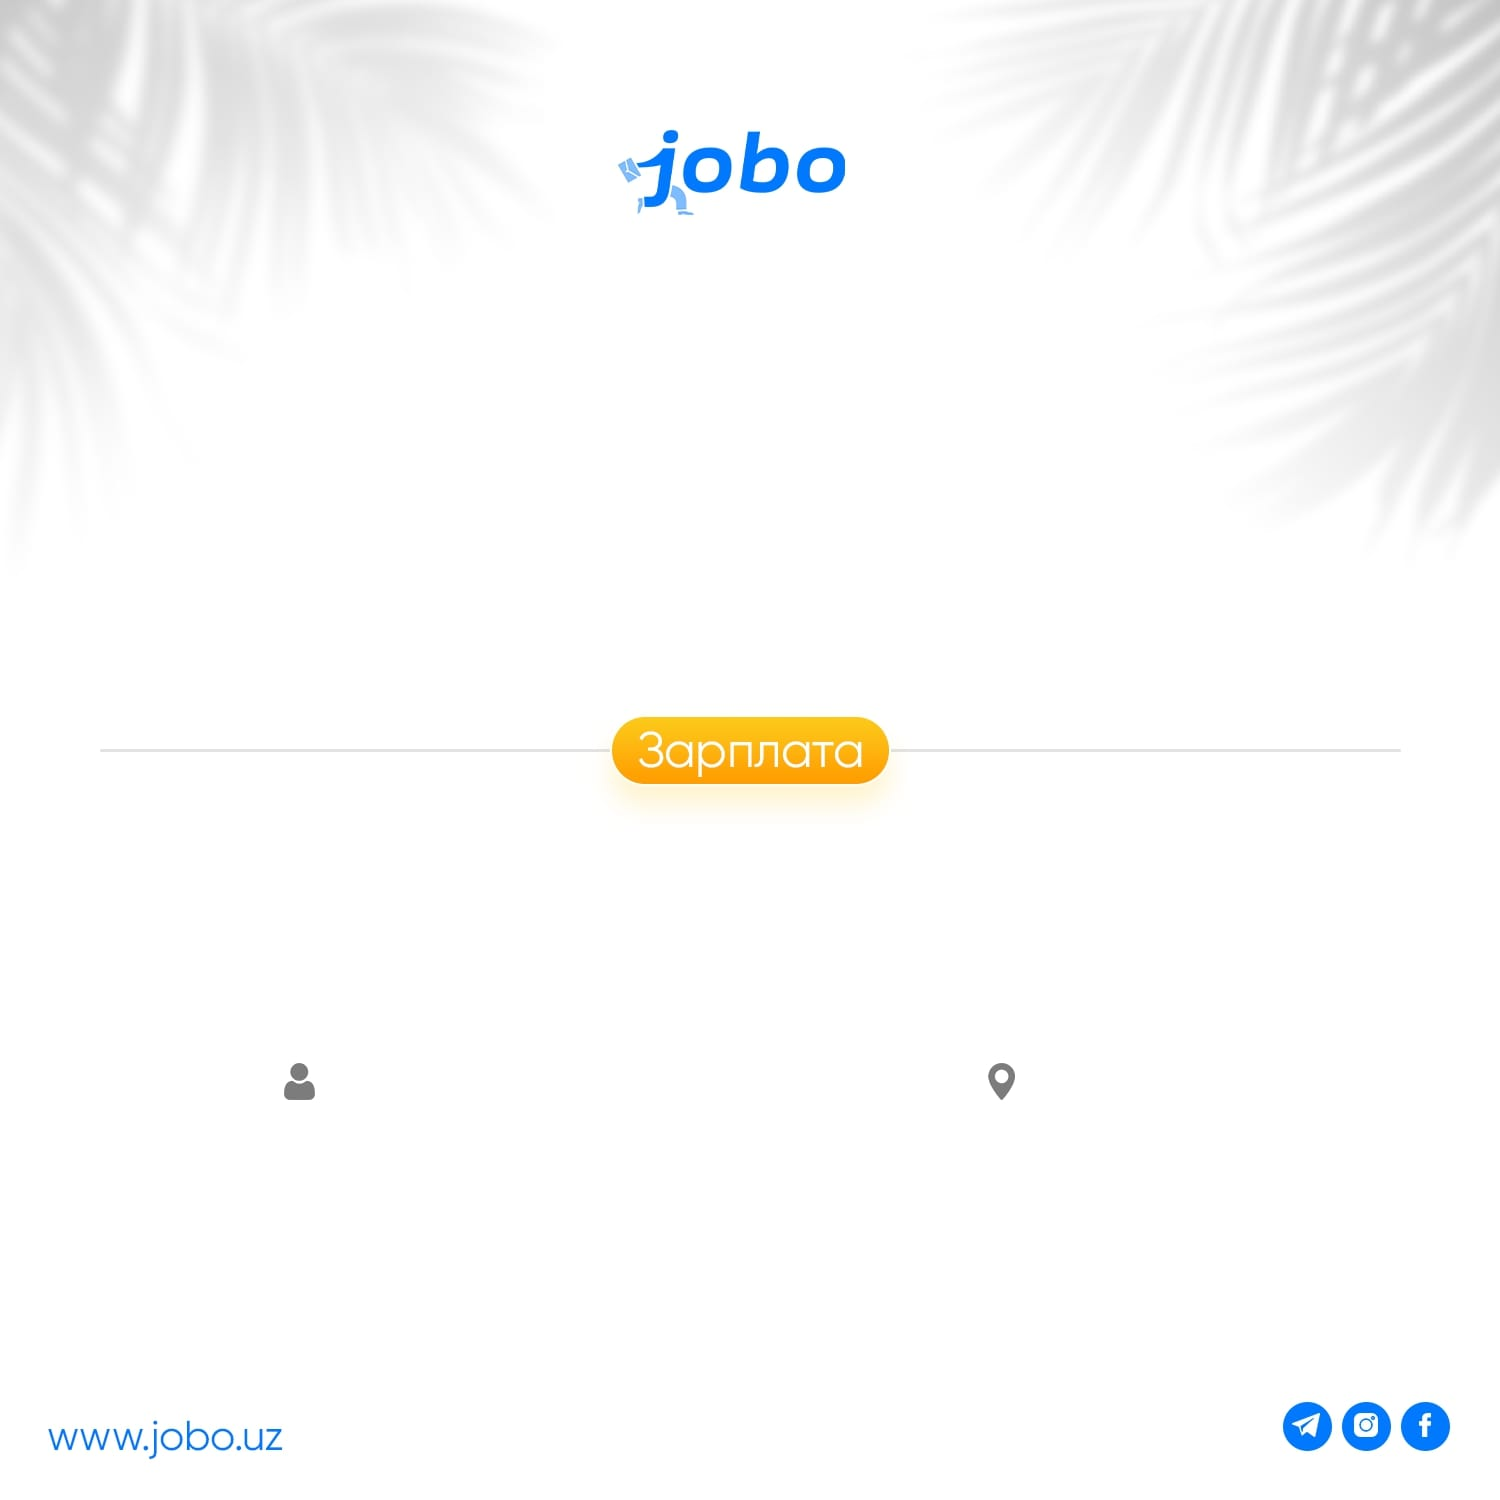
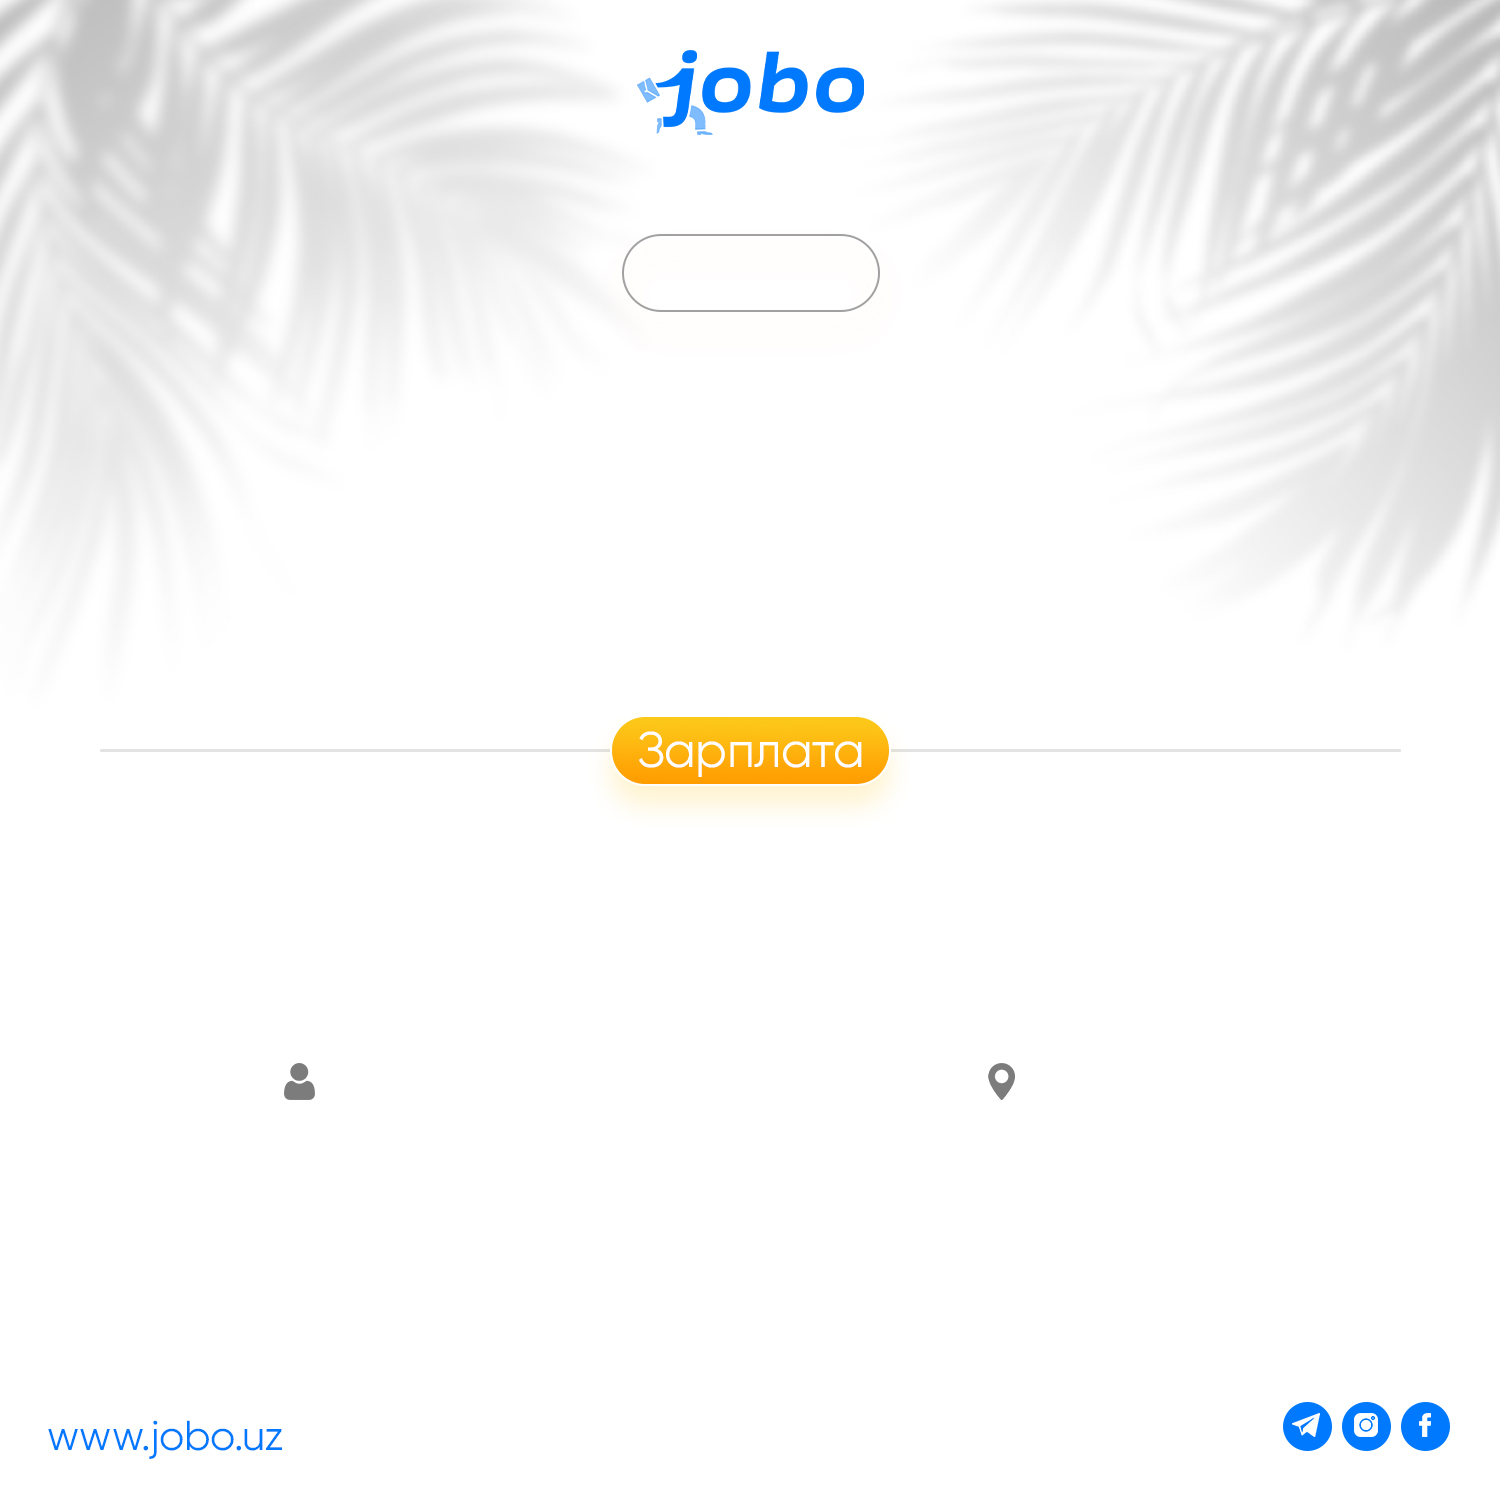
post number image create

diff --git a/app/Services/JobServices.php b/app/Services/JobServices.php
@@ -71,11 +71,12 @@ class JobServices
     }
 
 
-    public function createJobBanner( $company, $title ,$salary , $address)
+    public function createJobBanner( $company, $title ,$salary , $address, $post_number)
     {
         $randomFileName = uniqid() . '.jpg';
         $imagefileUrl = 'uploads/image/job-posts/' . $randomFileName;
         $storagePath = public_path($imagefileUrl);
+        $postNumber =  '№ ' . $post_number;
         $text1 = $title;
         $text2 = $company;
         $text3 = Location::find($address)['name']['ru'];
@@ -143,6 +144,14 @@ class JobServices
            $remainingText = "";
         }
         
+        $jpg_image->text($postNumber,  753 , 273, function ($font) use ($font_path) {
+            $font->file($font_path);
+            $font->size(50);
+            $font->color('#0079fe');
+            $font->align('center');
+            $font->valign('middle');
+        });
+
         $jpg_image->text($firstLine , 750 , 450, function ($font) use ($font_path, $green) {
             $font->file($font_path);
             $font->size(92);

diff --git a/app/Http/Controllers/Admin/AnnouncementController.php b/app/Http/Controllers/Admin/AnnouncementController.php
@@ -42,7 +42,7 @@ class AnnouncementController extends Controller
     {
         $request->validated();
         
-        $imageUrl =  JobServices::getInstance()->createJobBanner($request->data['company_name'], $request->data['title'], $request->data['salary'], $request->data['address'] );
+        $imageUrl =  JobServices::getInstance()->createJobBanner($request->data['company_name'], $request->data['title'], $request->data['salary'], $request->data['address'] , $request->data['post_number']);
         
         $data = $request->data;
 
@@ -113,7 +113,7 @@ class AnnouncementController extends Controller
         }
         
         
-        $imageUrl =  JobServices::getInstance()->createJobBanner($request->post['company_name'], $request->post['title'], $request->post['salary'], $request->post['address'] );
+        $imageUrl =  JobServices::getInstance()->createJobBanner($request->post['company_name'], $request->post['title'], $request->post['salary'], $request->post['address'] , $request->post['post_number']);
         
         $post = $request->post;
 
